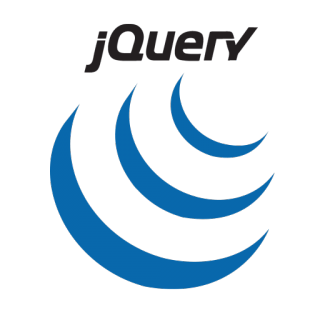
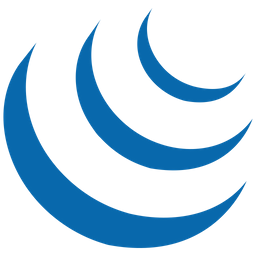
🐛 skill 카테고리 이미지 assets 변경

diff --git a/index.html b/index.html
@@ -9,8 +9,13 @@
   <link rel="preconnect" href="https://fonts.googleapis.com">
   <link rel="preconnect" href="https://fonts.gstatic.com" crossorigin>
   <link href="https://fonts.googleapis.com/css2?family=Poppins:wght@300;400;500;600;700;800&display=swap" rel="stylesheet">
+  <!-- google Material icon -->
+  <link rel="stylesheet" href="https://fonts.googleapis.com/icon?family=Material+Icons" />
   <!-- style sheet -->
   <link rel="stylesheet" href="./dist/style.css">
+  <!-- swiper 라이브러리 -->
+  <link rel="stylesheet" href="https://unpkg.com/swiper@7/swiper-bundle.min.css"/>
+  <script src="https://unpkg.com/swiper@7/swiper-bundle.min.js"></script>
 </head>
 <body>
   <!-- ======================================== header ======================================== -->
@@ -63,8 +68,8 @@
     <!-- ========== tech section ========== -->
     <section class="tech-section" aria-label="사용할수 있는 기술들의 리스트">
       <div class="container">
-        <span class="divider">🛠 Tech Used</span>
         <div class="row">
+          <span class="divider">🛠 Tech Used</span>
           <div class="col-sm-4">
             <!-- tech-skill -->
             <div class="tech-skill">
@@ -151,14 +156,21 @@
     <!-- ========== toy project section ========== -->
     <section class="toy-project-section">
       <div class="container">
-        <span class="divider">🎨 My toy-project</span>
         <div class="row">
-          
-          <div class="col-sm-4 col-md-6">
-            <div class="project"></div>
-          </div>
-          <div class="col-sm-4 col-md-6">
-            <div class="project"></div>
+          <span class="divider">🎨 My toy-project</span>
+          <div class="col-sm-4">
+            <div class="swiper projects">
+              <div class="swiper-wrapper">
+                <div class="swiper-slide">Slide 1</div>
+                <div class="swiper-slide">Slide 2</div>
+              </div>
+              <!-- <div class="swiper-prev btn" aria-label="뒤로 버튼">
+                <span class="material-icons" aria-hidden="true">arrow_back</span>
+              </div>
+              <div class="swiper-next btn" aria-label="앞으로 버튼">
+                <span class="material-icons" aria-hidden="true">arrow_forward</span>
+              </div> -->
+            </div>
           </div>
         </div>
       </div>
